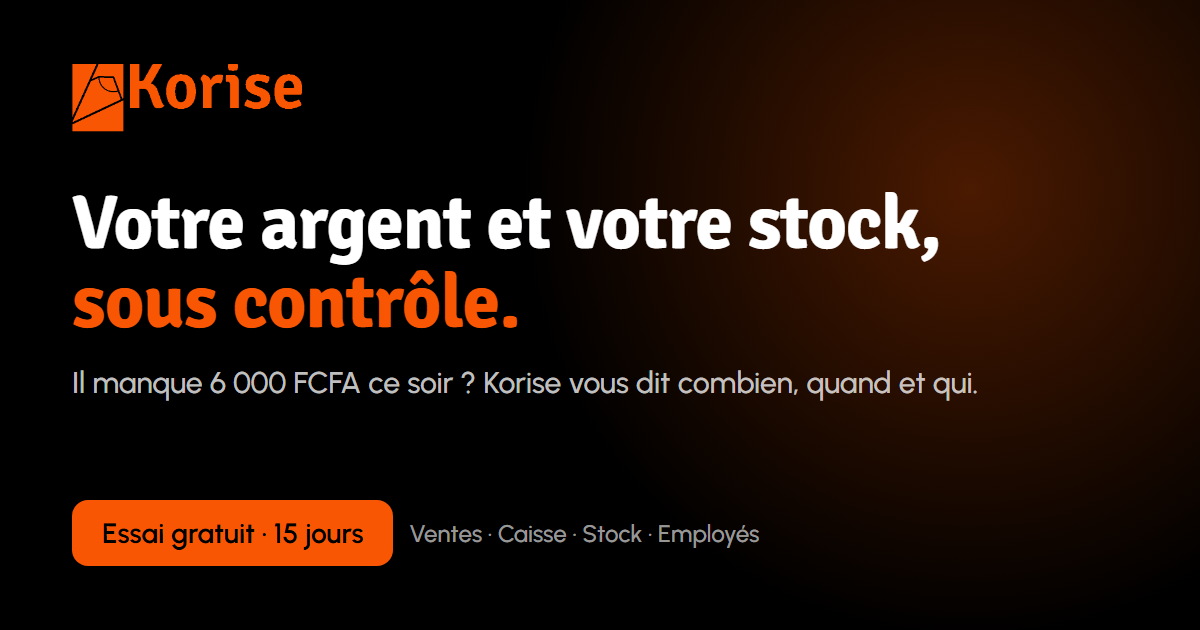
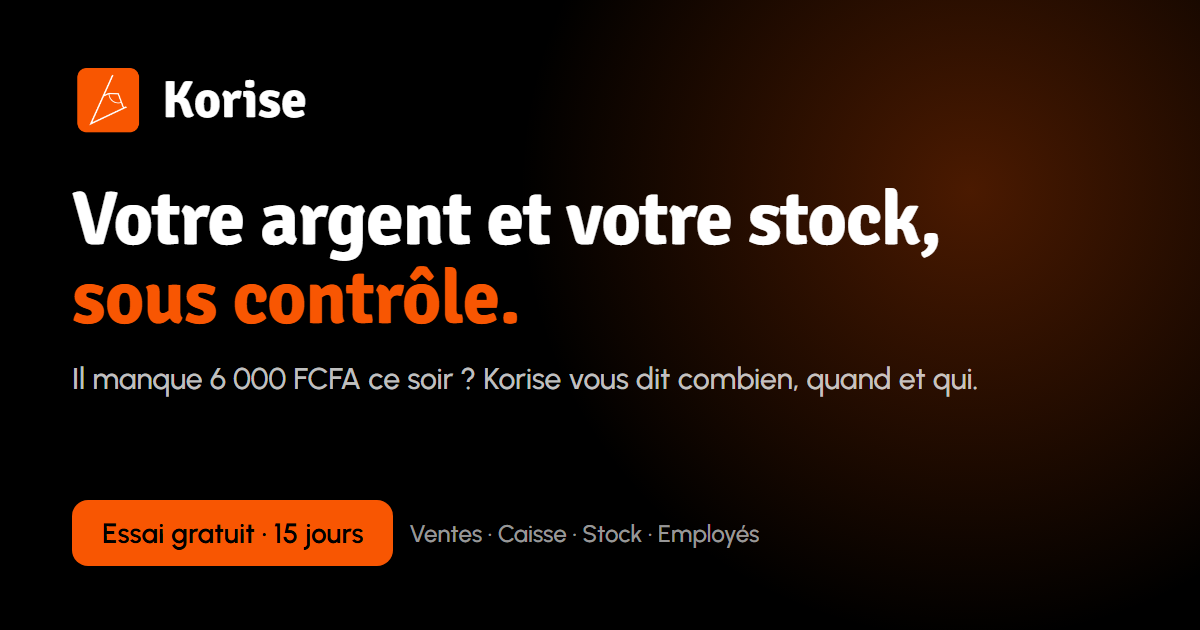
Social media links added

diff --git a/apps/landing/src/index.html b/apps/landing/src/index.html
@@ -60,10 +60,9 @@ p{margin:0}
 
 /* En-tête */
 .nav{position:relative;display:flex;align-items:center;justify-content:space-between;height:68px}
-.logo{display:block;width:104px;height:34px;overflow:hidden;position:relative}
-/* Le PNG du logo a de larges marges transparentes : on recadre sur le motif. */
-.logo img{position:absolute;width:145px;height:auto;left:-19px;top:-21px;mix-blend-mode:lighten}
-/* Le PNG a un fond noir opaque : « lighten » le rend invisible sur fond sombre (halo orange compris). */
+/* Logo complet = sous-titre noir, illisible sur fond sombre : icône + mot « Korise » en Signika. */
+.logo{display:inline-flex;align-items:center;gap:10px;text-decoration:none;color:var(--ink);font:700 24px/1 var(--h);letter-spacing:-.01em}
+.logo img{width:34px;height:34px;border-radius:9px}
 .nav .btn{min-height:42px;padding:0 16px;font-size:15px;border-radius:var(--r-card);box-shadow:none}
 
 /* Hero */
@@ -199,10 +198,12 @@ section.s{padding:72px 0}
 footer{border-top:1px solid var(--line);padding:40px 0 120px;color:var(--ink-3);font-size:14px}
 .foot{display:grid;gap:22px}
 .foot .tag{color:var(--ink-2);margin-top:10px}
-.social{display:flex;gap:10px;flex-wrap:wrap}
-.social a{display:inline-flex;align-items:center;gap:8px;padding:8px 14px;border:1px solid var(--line);border-radius:999px;text-decoration:none;color:var(--ink-2)}
-.social a:hover{border-color:var(--accent);color:var(--ink)}
-.social .ico{width:16px;height:16px}
+.social{display:flex;gap:10px;flex-wrap:wrap;align-items:center}
+.social a{display:grid;place-items:center;width:44px;height:44px;border:1px solid var(--line);border-radius:50%;color:var(--ink-2);transition:color .15s,border-color .15s,background .15s}
+.social a:hover{border-color:var(--accent);color:var(--background);background:var(--accent)}
+.social .brand{width:19px;height:19px;fill:currentColor}
+.social .login{width:auto;padding:0 16px;border-radius:999px;text-decoration:none;font-weight:600}
+.follow{font:500 12px var(--b);letter-spacing:.08em;text-transform:uppercase;color:var(--ink-3);margin-bottom:12px}
 .legal{display:flex;flex-wrap:wrap;justify-content:space-between;gap:10px;padding-top:22px;border-top:1px solid var(--line)}
 .legal a{color:var(--ink-2)}
 .legal .korah{color:var(--accent);font-weight:600;text-decoration:none}
@@ -231,6 +232,7 @@ footer{border-top:1px solid var(--line);padding:40px 0 120px;color:var(--ink-3);
   footer{padding-bottom:40px}
 }
 </style>
+%%JSON_LD%%
 </head>
 <body>
 <!-- Icônes Lucide (outline), en sprite inline : aucune requête en plus. -->
@@ -247,13 +249,19 @@ footer{border-top:1px solid var(--line);padding:40px 0 120px;color:var(--ink-3);
   <symbol id="i-msg" viewBox="0 0 24 24"><path d="M2.992 16.342a2 2 0 0 1 .094 1.167l-1.065 3.29a1 1 0 0 0 1.236 1.168l3.413-.998a2 2 0 0 1 1.099.092 10 10 0 1 0-4.777-4.719"/></symbol>
   <symbol id="i-play" viewBox="0 0 24 24"><path d="M5 5a2 2 0 0 1 3.008-1.728l11.997 6.998a2 2 0 0 1 .003 3.458l-12 7A2 2 0 0 1 5 19z"/></symbol>
   <symbol id="i-chev" viewBox="0 0 24 24"><path d="m6 9 6 6 6-6"/></symbol>
+  <!-- Logos des réseaux : simple-icons (CC0), Lucide n'a pas d'icônes de marque. -->
+  <symbol id="b-facebook" viewBox="0 0 24 24"><path d="M9.101 23.691v-7.98H6.627v-3.667h2.474v-1.58c0-4.085 1.848-5.978 5.858-5.978.401 0 .955.042 1.468.103a8.68 8.68 0 0 1 1.141.195v3.325a8.623 8.623 0 0 0-.653-.036 26.805 26.805 0 0 0-.733-.009c-.707 0-1.259.096-1.675.309a1.686 1.686 0 0 0-.679.622c-.258.42-.374.995-.374 1.752v1.297h3.919l-.386 2.103-.287 1.564h-3.246v8.245C19.396 23.238 24 18.179 24 12.044c0-6.627-5.373-12-12-12s-12 5.373-12 12c0 5.628 3.874 10.35 9.101 11.647Z"/></symbol>
+  <symbol id="b-instagram" viewBox="0 0 24 24"><path d="M7.0301.084c-1.2768.0602-2.1487.264-2.911.5634-.7888.3075-1.4575.72-2.1228 1.3877-.6652.6677-1.075 1.3368-1.3802 2.127-.2954.7638-.4956 1.6365-.552 2.914-.0564 1.2775-.0689 1.6882-.0626 4.947.0062 3.2586.0206 3.6671.0825 4.9473.061 1.2765.264 2.1482.5635 2.9107.308.7889.72 1.4573 1.388 2.1228.6679.6655 1.3365 1.0743 2.1285 1.38.7632.295 1.6361.4961 2.9134.552 1.2773.056 1.6884.069 4.9462.0627 3.2578-.0062 3.668-.0207 4.9478-.0814 1.28-.0607 2.147-.2652 2.9098-.5633.7889-.3086 1.4578-.72 2.1228-1.3881.665-.6682 1.0745-1.3378 1.3795-2.1284.2957-.7632.4966-1.636.552-2.9124.056-1.2809.0692-1.6898.063-4.948-.0063-3.2583-.021-3.6668-.0817-4.9465-.0607-1.2797-.264-2.1487-.5633-2.9117-.3084-.7889-.72-1.4568-1.3876-2.1228C21.2982 1.33 20.628.9208 19.8378.6165 19.074.321 18.2017.1197 16.9244.0645 15.6471.0093 15.236-.005 11.977.0014 8.718.0076 8.31.0215 7.0301.0839m.1402 21.6932c-1.17-.0509-1.8053-.2453-2.2287-.408-.5606-.216-.96-.4771-1.3819-.895-.422-.4178-.6811-.8186-.9-1.378-.1644-.4234-.3624-1.058-.4171-2.228-.0595-1.2645-.072-1.6442-.079-4.848-.007-3.2037.0053-3.583.0607-4.848.05-1.169.2456-1.805.408-2.2282.216-.5613.4762-.96.895-1.3816.4188-.4217.8184-.6814 1.3783-.9003.423-.1651 1.0575-.3614 2.227-.4171 1.2655-.06 1.6447-.072 4.848-.079 3.2033-.007 3.5835.005 4.8495.0608 1.169.0508 1.8053.2445 2.228.408.5608.216.96.4754 1.3816.895.4217.4194.6816.8176.9005 1.3787.1653.4217.3617 1.056.4169 2.2263.0602 1.2655.0739 1.645.0796 4.848.0058 3.203-.0055 3.5834-.061 4.848-.051 1.17-.245 1.8055-.408 2.2294-.216.5604-.4763.96-.8954 1.3814-.419.4215-.8181.6811-1.3783.9-.4224.1649-1.0577.3617-2.2262.4174-1.2656.0595-1.6448.072-4.8493.079-3.2045.007-3.5825-.006-4.848-.0608M16.953 5.5864A1.44 1.44 0 1 0 18.39 4.144a1.44 1.44 0 0 0-1.437 1.4424M5.8385 12.012c.0067 3.4032 2.7706 6.1557 6.173 6.1493 3.4026-.0065 6.157-2.7701 6.1506-6.1733-.0065-3.4032-2.771-6.1565-6.174-6.1498-3.403.0067-6.156 2.771-6.1496 6.1738M8 12.0077a4 4 0 1 1 4.008 3.9921A3.9996 3.9996 0 0 1 8 12.0077"/></symbol>
+  <symbol id="b-tiktok" viewBox="0 0 24 24"><path d="M12.525.02c1.31-.02 2.61-.01 3.91-.02.08 1.53.63 3.09 1.75 4.17 1.12 1.11 2.7 1.62 4.24 1.79v4.03c-1.44-.05-2.89-.35-4.2-.97-.57-.26-1.1-.59-1.62-.93-.01 2.92.01 5.84-.02 8.75-.08 1.4-.54 2.79-1.35 3.94-1.31 1.92-3.58 3.17-5.91 3.21-1.43.08-2.86-.31-4.08-1.03-2.02-1.19-3.44-3.37-3.65-5.71-.02-.5-.03-1-.01-1.49.18-1.9 1.12-3.72 2.58-4.96 1.66-1.44 3.98-2.13 6.15-1.72.02 1.48-.04 2.96-.04 4.44-.99-.32-2.15-.23-3.02.37-.63.41-1.11 1.04-1.36 1.75-.21.51-.15 1.07-.14 1.61.24 1.64 1.82 3.02 3.5 2.87 1.12-.01 2.19-.66 2.77-1.61.19-.33.4-.67.41-1.06.1-1.79.06-3.57.07-5.36.01-4.03-.01-8.05.02-12.07z"/></symbol>
+  <symbol id="b-youtube" viewBox="0 0 24 24"><path d="M23.498 6.186a3.016 3.016 0 0 0-2.122-2.136C19.505 3.545 12 3.545 12 3.545s-7.505 0-9.377.505A3.017 3.017 0 0 0 .502 6.186C0 8.07 0 12 0 12s0 3.93.502 5.814a3.016 3.016 0 0 0 2.122 2.136c1.871.505 9.376.505 9.376.505s7.505 0 9.377-.505a3.015 3.015 0 0 0 2.122-2.136C24 15.93 24 12 24 12s0-3.93-.502-5.814zM9.545 15.568V8.432L15.818 12l-6.273 3.568z"/></symbol>
+  <symbol id="b-whatsapp" viewBox="0 0 24 24"><path d="M17.472 14.382c-.297-.149-1.758-.867-2.03-.967-.273-.099-.471-.148-.67.15-.197.297-.767.966-.94 1.164-.173.199-.347.223-.644.075-.297-.15-1.255-.463-2.39-1.475-.883-.788-1.48-1.761-1.653-2.059-.173-.297-.018-.458.13-.606.134-.133.298-.347.446-.52.149-.174.198-.298.298-.497.099-.198.05-.371-.025-.52-.075-.149-.669-1.612-.916-2.207-.242-.579-.487-.5-.669-.51-.173-.008-.371-.01-.57-.01-.198 0-.52.074-.792.372-.272.297-1.04 1.016-1.04 2.479 0 1.462 1.065 2.875 1.213 3.074.149.198 2.096 3.2 5.077 4.487.709.306 1.262.489 1.694.625.712.227 1.36.195 1.871.118.571-.085 1.758-.719 2.006-1.413.248-.694.248-1.289.173-1.413-.074-.124-.272-.198-.57-.347m-5.421 7.403h-.004a9.87 9.87 0 01-5.031-1.378l-.361-.214-3.741.982.998-3.648-.235-.374a9.86 9.86 0 01-1.51-5.26c.001-5.45 4.436-9.884 9.888-9.884 2.64 0 5.122 1.03 6.988 2.898a9.825 9.825 0 012.893 6.994c-.003 5.45-4.437 9.884-9.885 9.884m8.413-18.297A11.815 11.815 0 0012.05 0C5.495 0 .16 5.335.157 11.892c0 2.096.547 4.142 1.588 5.945L.057 24l6.305-1.654a11.882 11.882 0 005.683 1.448h.005c6.554 0 11.89-5.335 11.893-11.893a11.821 11.821 0 00-3.48-8.413Z"/></symbol>
   <symbol id="i-lock" viewBox="0 0 24 24"><rect width="18" height="11" x="3" y="11" rx="2" ry="2"/><path d="M7 11V7a5 5 0 0 1 10 0v4"/></symbol>
 </svg>
 
 <header class="hero">
   <div class="wrap">
     <nav class="nav" aria-label="Principal">
-      <a class="logo" href="/" aria-label="Korise, accueil"><img src="/brand/korise-logo-full.png" alt="Korise" width="1080" height="491" fetchpriority="high"></a>
+      <a class="logo" href="/" aria-label="Korise, accueil"><img src="/brand/korise-icon.png" alt="" width="34" height="34" fetchpriority="high">Korise</a>
       <a class="btn" data-cta href="%%APP_URL%%/login/?mode=register&amp;src=landing">Essayer</a>
     </nav>
 
@@ -426,12 +434,16 @@ footer{border-top:1px solid var(--line);padding:40px 0 120px;color:var(--ink-3);
   <div class="wrap">
     <div class="foot">
       <div>
-        <a class="logo" href="/" aria-label="Korise"><img src="/brand/korise-logo-full.png" alt="Korise" width="1080" height="491" loading="lazy"></a>
-        <p class="tag">%%TAGLINE%%</p>
+        <a class="logo" href="/" aria-label="Korise"><img src="/brand/korise-icon.png" alt="" width="34" height="34" loading="lazy">Korise</a>
+        <p class="tag">Korah Business Manager · %%TAGLINE%%</p>
       </div>
-      <div class="social" id="social">
-        <a data-wa href="https://wa.me/%%WHATSAPP%%"><svg class="ico"><use href="#i-msg"/></svg>WhatsApp</a>
-        <a href="%%APP_URL%%/login/">Se connecter</a>
+      <div>
+        <p class="follow">Suivez Korise</p>
+        <div class="social">
+          %%SOCIAL_LINKS%%
+          <a data-wa href="https://wa.me/%%WHATSAPP%%" aria-label="WhatsApp"><svg class="brand"><use href="#b-whatsapp"/></svg></a>
+          <a class="login" href="%%APP_URL%%/login/">Se connecter</a>
+        </div>
       </div>
     </div>
     <div class="legal">
@@ -448,7 +460,6 @@ footer{border-top:1px solid var(--line);padding:40px 0 120px;color:var(--ink-3);
 <script>
 (function(){
   var APP='%%APP_URL%%', WA='%%WHATSAPP%%', YT='%%YOUTUBE_URL%%';
-  var SOCIAL=%%SOCIAL_JSON%%;
   // Liens traçables : /fb /ig /tt /wa (ou ?src=, ?utm_source=) → canal transmis à l'inscription.
   var ALIAS={fb:'facebook',facebook:'facebook',ig:'instagram',instagram:'instagram',tt:'tiktok',tiktok:'tiktok',wa:'whatsapp',whatsapp:'whatsapp'};
   var NAMES={facebook:'Facebook',instagram:'Instagram',tiktok:'TikTok',whatsapp:'WhatsApp'};
@@ -466,9 +477,6 @@ footer{border-top:1px solid var(--line);padding:40px 0 120px;color:var(--ink-3);
 
   var v=document.getElementById('video-link');
   if(!YT){v.removeAttribute('href');v.classList.add('soon');document.getElementById('video-tag').textContent='Bientôt en ligne';}
-
-  var box=document.getElementById('social');
-  SOCIAL.forEach(function(s){var a=document.createElement('a');a.href=s.url;a.target='_blank';a.rel='noopener';a.textContent=s.label;box.insertBefore(a,box.lastElementChild);});
 
   document.getElementById('y').textContent=new Date().getFullYear();
 

diff --git a/apps/landing/scripts/og.html b/apps/landing/scripts/og.html
@@ -5,8 +5,8 @@
 html,body{margin:0;width:1200px;height:630px;overflow:hidden;background:var(--background);color:var(--surface);font-family:Urbanist,sans-serif}
 .g{position:absolute;right:-220px;top:-260px;width:900px;height:900px;background:radial-gradient(closest-side,color-mix(in srgb,var(--accent) 30%,transparent),transparent)}
 .w{position:relative;padding:64px 72px;height:100%;box-sizing:border-box;display:flex;flex-direction:column}
-.logo{width:230px;height:76px;overflow:hidden;position:relative}
-.logo img{position:absolute;width:320px;left:-42px;top:-46px}
+.logo{display:flex;align-items:center;gap:18px;font:700 52px/1 Signika}
+.logo img{width:72px;height:72px;border-radius:18px}
 h1{font:700 76px/1.04 Signika;margin:44px 0 22px;letter-spacing:-1px;max-width:900px}
 h1 em{font-style:normal;color:var(--accent)}
 p{font-size:30px;color:rgba(255,255,255,.75);margin:0}
@@ -14,7 +14,7 @@ p{font-size:30px;color:rgba(255,255,255,.75);margin:0}
 .pill{background:var(--accent);color:var(--background);font:600 28px Urbanist;padding:16px 30px;border-radius:16px}
 .s{font-size:24px;color:rgba(255,255,255,.6)}
 </style></head><body><div class="g"></div><div class="w">
-<div class="logo"><img src="%%LOGO%%"></div>
+<div class="logo"><img src="%%LOGO%%">Korise</div>
 <h1>Votre argent et votre stock, <em>sous contrôle.</em></h1>
 <p>Il manque 6 000 FCFA ce soir ? Korise vous dit combien, quand et qui.</p>
 <div class="b"><span class="pill">Essai gratuit · 15 jours</span><span class="s">Ventes · Caisse · Stock · Employés</span></div>

diff --git a/CLAUDE.md b/CLAUDE.md
@@ -214,8 +214,13 @@ retirer.
   jamais l'inscription). Web : `lib/acquisition.ts` + `/login` lit `?mode=register&src=`. Super Admin
   Analytics : « Inscriptions par canal » (inscrits + part ayant vendu). Tests :
   `backend/tests/test_signup_source.py`.
-- **Le PNG `korise-logo-full.png` a un fond noir opaque** (pas transparent) : sur fond sombre la landing
-  le rend avec `mix-blend-mode: lighten`. Sur fond clair, il faudrait une version transparente.
+- **`korise-logo-full.png` (mis à jour 2026-10-08) : fond transparent + sous-titre « Korah Business
+  Manager » en NOIR** → illisible sur fond sombre. La landing (fond noir) utilise donc icône +
+  « Korise » en Signika ; idem pour l'image de partage `src/og.png`. Une variante « fond sombre » (sous-titre
+  blanc) serait nécessaire pour réutiliser le logo complet sur noir (page `/login` web incluse).
+- Réseaux (config.json `social`) : Facebook, Instagram, TikTok, YouTube + WhatsApp, rendus au build en
+  icônes rondes dans le pied de page (logos simple-icons CC0 — Lucide n'a pas d'icônes de marque, seule
+  exception à la règle « Lucide uniquement ») + JSON-LD `Organization.sameAs`.
 
 ## Prochaines étapes backend (dette explicite, pas oubliée)
 
